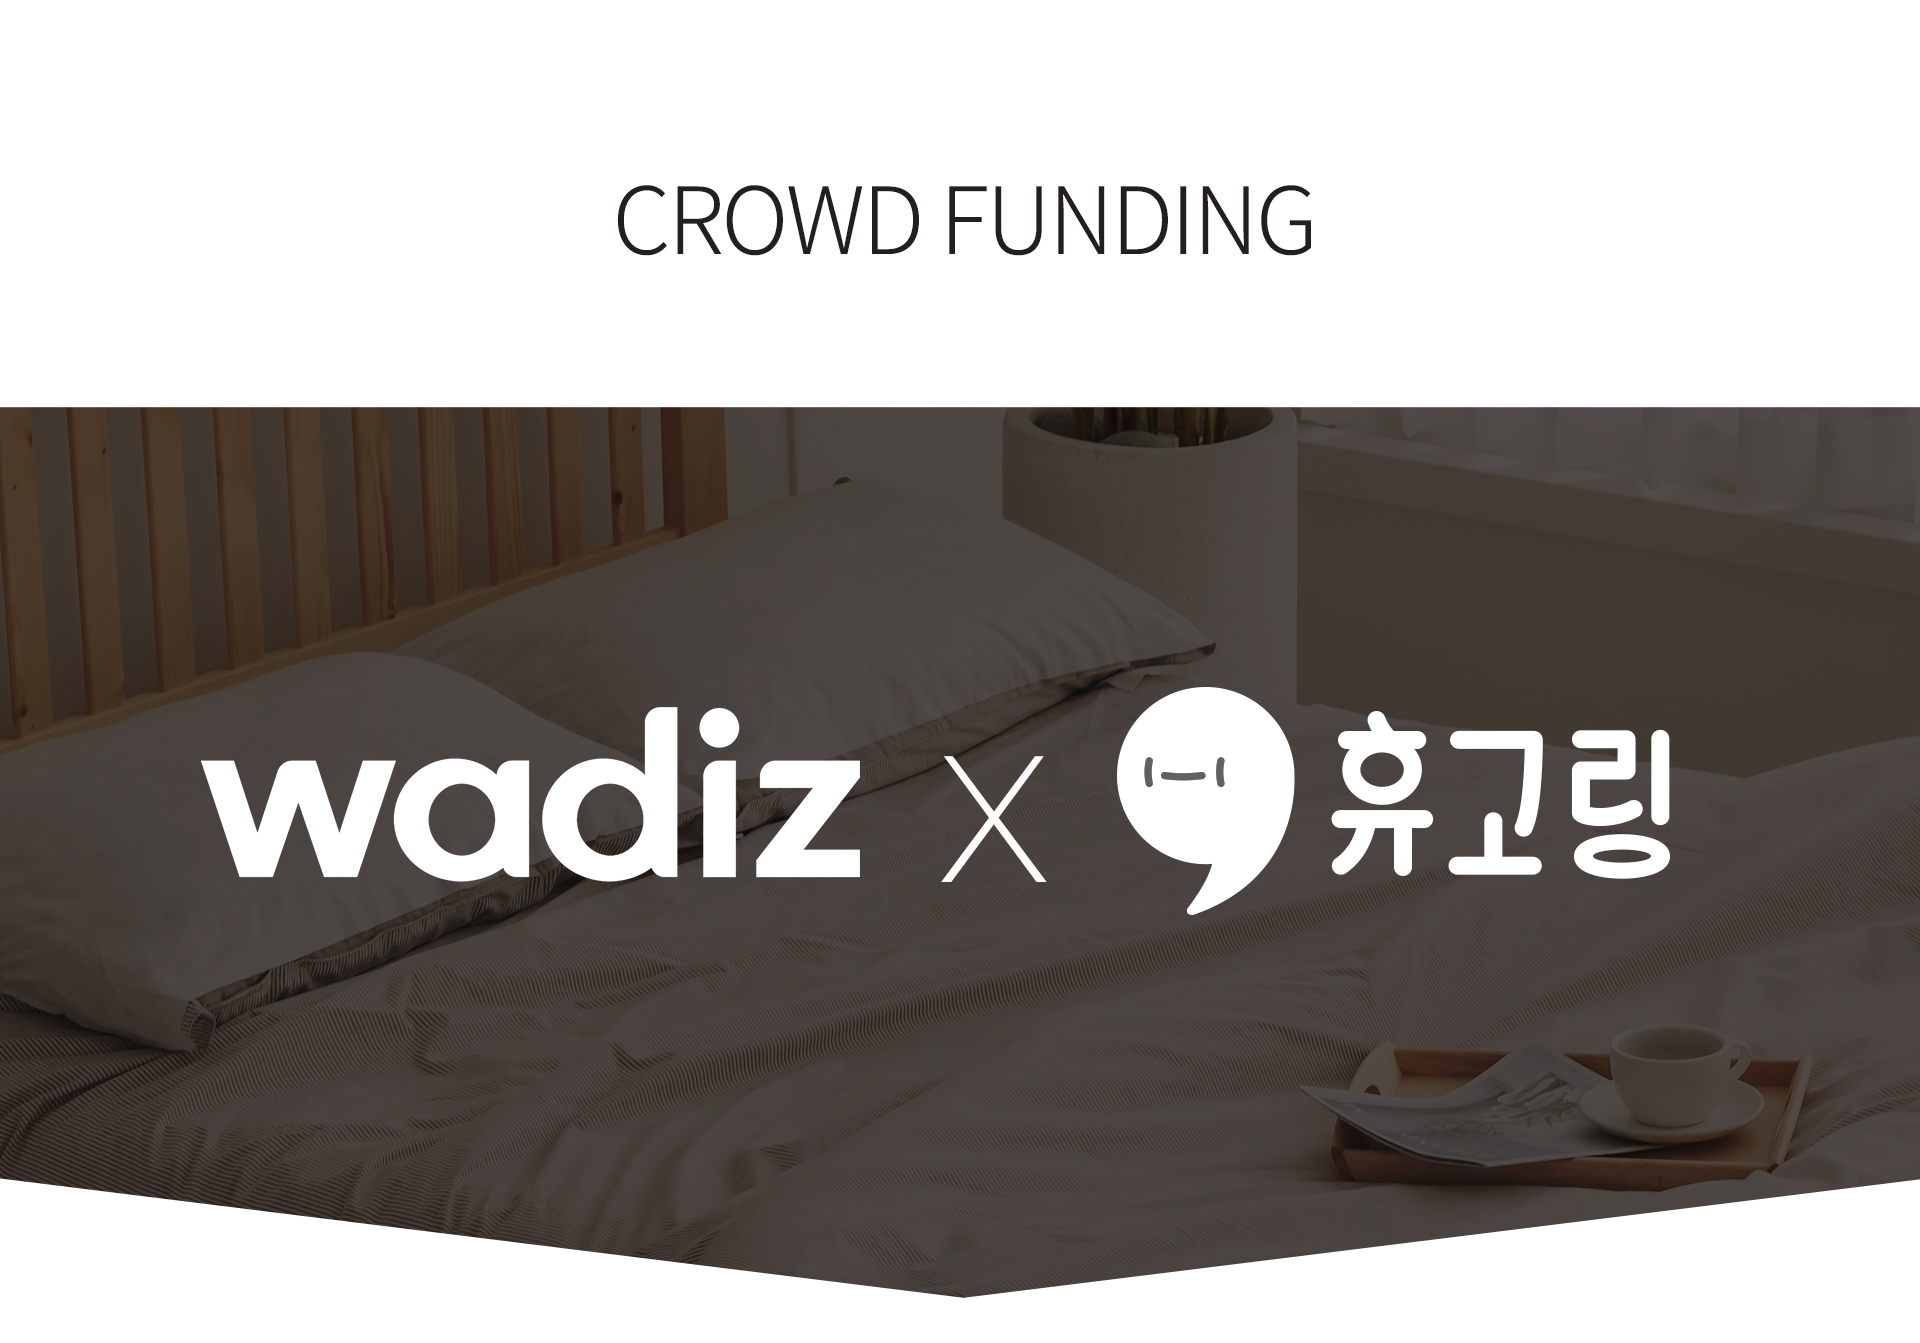
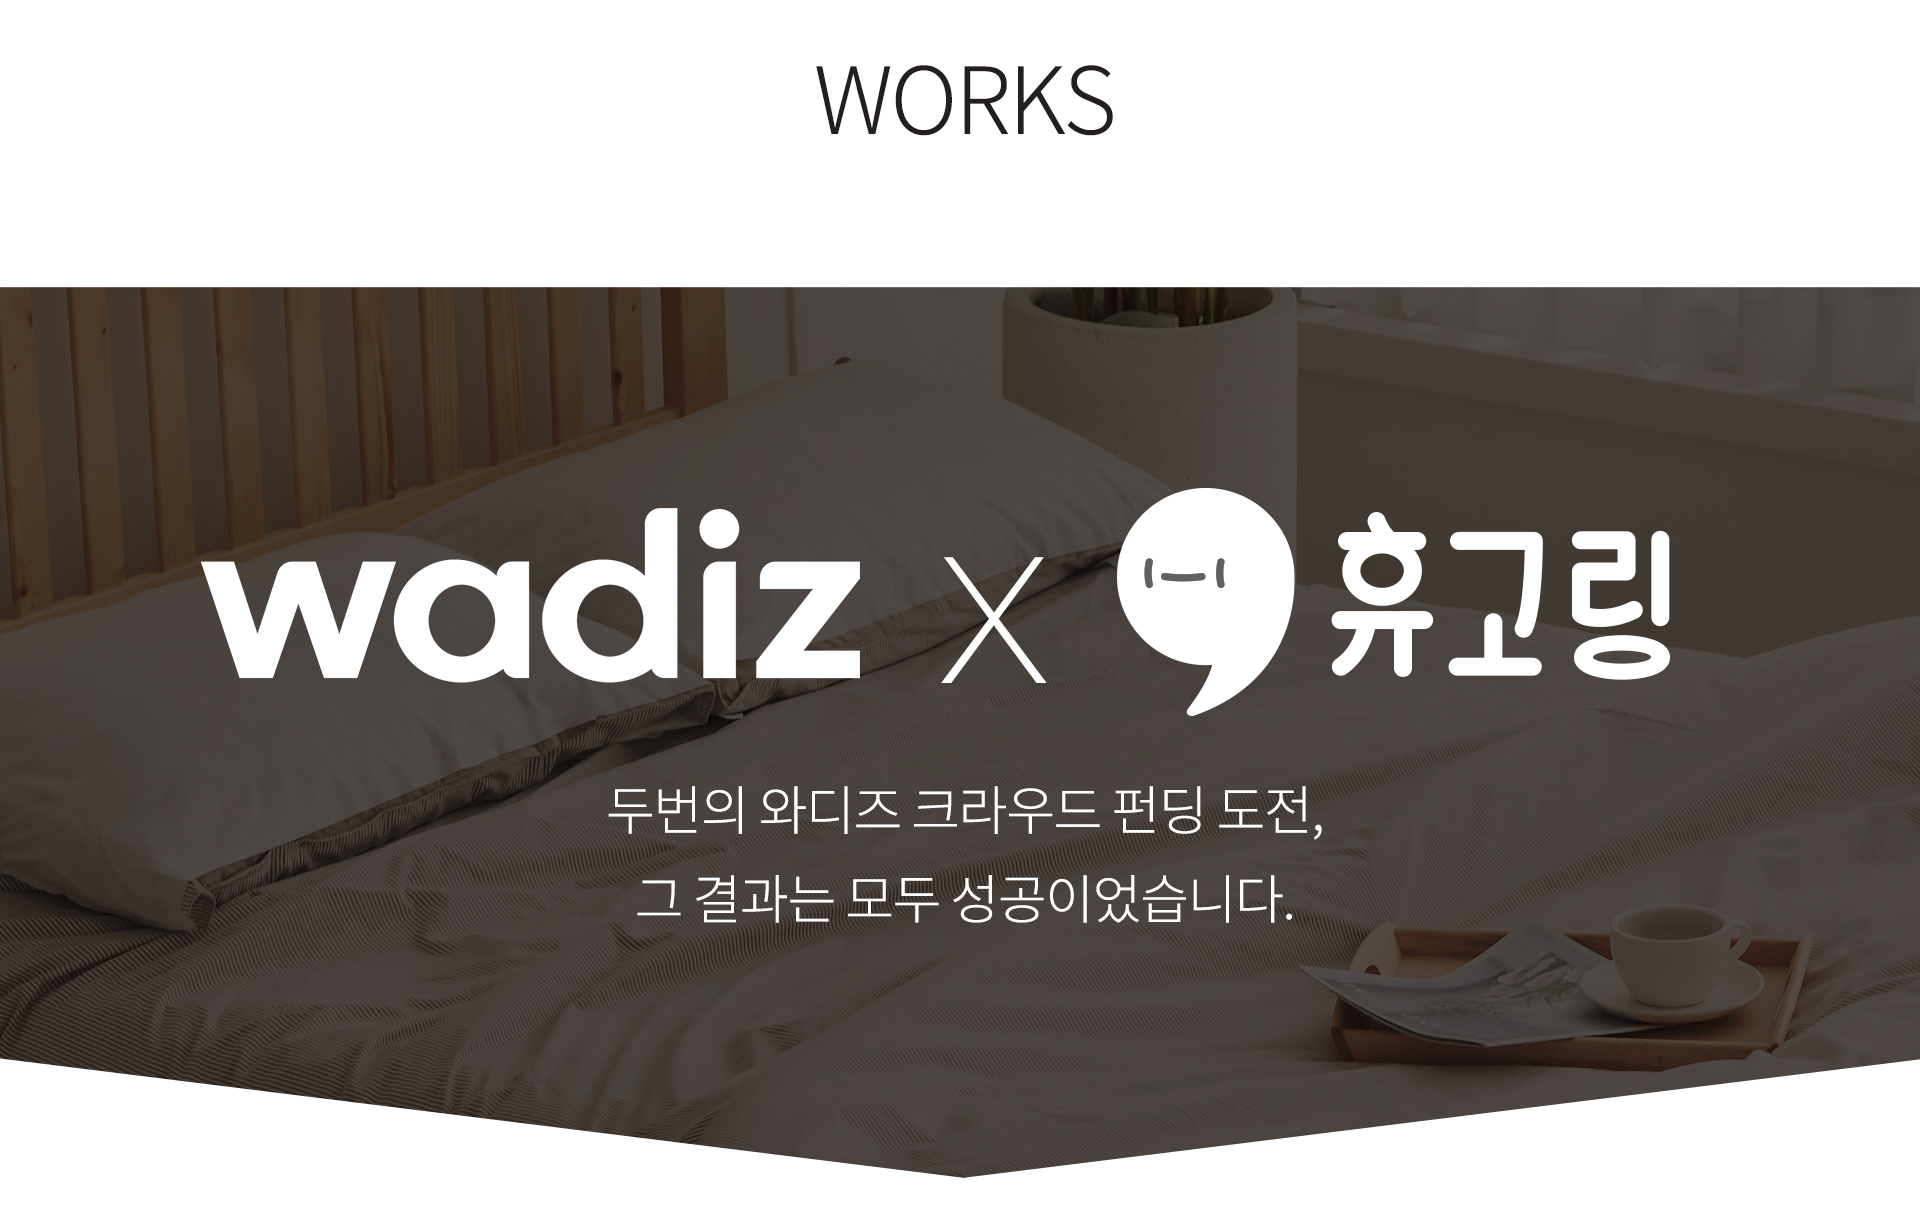
a

diff --git a/index.html b/index.html
@@ -11,27 +11,32 @@
 
 
  <div id="top">
-<p>,,</p>
-<a href="#first"> <img src="B_1.gif" width="10%"></a>
+<p></p>
+<a href="#products"> <img src="PRODUCTS.png" width="15%"></a><br><br>
+<a href="#works"> <img src="WORKS.png" width="15%"></a><br><br>
+<a href="#about"> <img src="ABOUT.png" width="15%"></a><br><br>
  </div>
 
 <center>
 <img src="huegoring_animation_2.gif" width="400"> <br>
-<img src="A.jpg" width="80%"> <br>
-<img src="B.jpg" width="80%"><br><br>
+<img src="A.jpg" width="70%"> <br>
 
-<p id="first">
-<a href="https://smartstore.naver.com/huegoring/products/5092880860"><img src="B_1.gif" width="80%"></a> <br>
-<a href="https://www.wadiz.kr/web/campaign/detail/84983"><img src="B_2.jpg" width="80%"></a> <br><br>
-<img src="C.jpg" width="80%"><br>
-<a href="https://www.wadiz.kr/web/campaign/detail/58546"><img src="C_1.jpg" width="80%"></a> <br>
-<a href="https://www.wadiz.kr/web/campaign/detail/84983"><img src="C_2.jpg" width="80%"></a> <br>
+<p id="products">
+<img src="B.jpg" width="70%"><br><br>
+<a href="https://smartstore.naver.com/huegoring/products/5092880860"><img src="B_1.gif" width="55%" ></a> <br>
+<a href="https://www.wadiz.kr/web/campaign/detail/84983"><img src="B_2.gif" width="55%"></a> <br><br>
 
-<img src="click_2.jpg" width="80%"> <br><br><br>
-<a href="https://www.instagram.com/huegoring_official/"><img src="instagram.png" width="50px"></a> 
+<p id="works">
+<img src="C.jpg" width="70%"><br>
+<a href="https://www.wadiz.kr/web/campaign/detail/58546"><img src="C_1.jpg" width="70%"></a> <br>
+<a href="https://www.wadiz.kr/web/campaign/detail/84983"><img src="C_2.jpg" width="70%"></a> <br>
+
+<p id="about">
+<img src="D.jpg" width="70%"><br><br><br><br>
+<a href="https://www.instagram.com/huegoring_official/"><img src="instagram.png" width="3%"></a> 
 <a href="https://www.facebook.com/%ED%9C%B4%EA%B3%A0%EB%A7%81-Huegoring-100957231681870/">
-<img src="facebook.png" width="50px"></a>
-<a href="https://www.youtube.com/channel/UCs-mYL_H4w9-x_Du1P9YKUA/"><img src="youtube.png" width="50px"></a> 
+<img src="facebook.png" width="3%"></a>
+<a href="https://www.youtube.com/channel/UCs-mYL_H4w9-x_Du1P9YKUA/"><img src="youtube.png" width="3%"></a> 
 <br><br><br>
 
 
@@ -39,7 +44,7 @@
 @import url('https://fonts.googleapis.com/css2?family=Noto+Sans+KR:wght@300&display=swap');
 .ng-font {
 font-family: 'Noto Sans KR', sans-serif; }
-p {font-size:10px;}
+p {font-size:20px;}
 
 </style>
 
